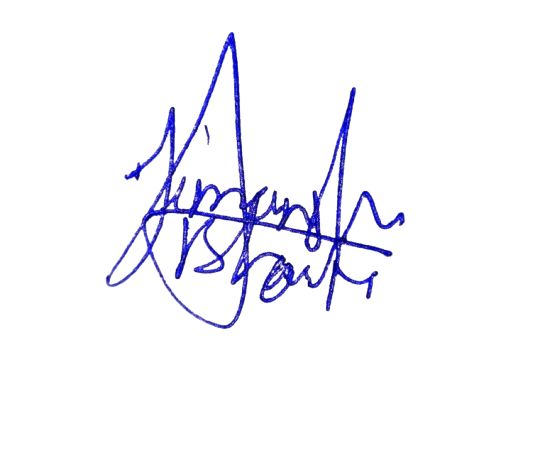
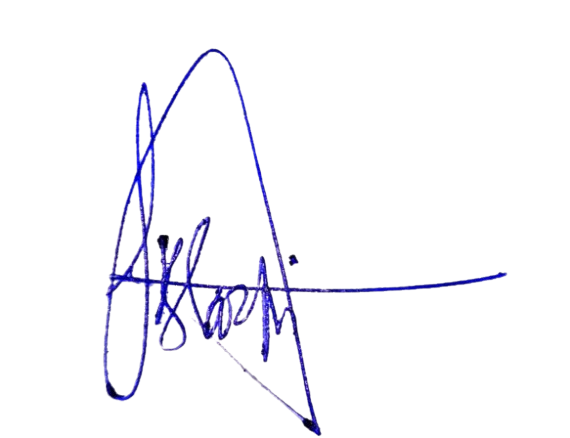
Persist document branding assets as data URLs

diff --git a/backend/routes/documentAssets.js b/backend/routes/documentAssets.js
@@ -2,7 +2,7 @@ const express = require('express');
 const router = express.Router();
 const { verifyToken, isAdmin } = require('../middleware/auth');
 const { logAdminAction } = require('../utils/audit');
-const { compatTableExists, safeRecordUploadedFile } = require('../utils/compat');
+const { compatColumnExists, compatTableExists, safeRecordUploadedFile } = require('../utils/compat');
 const { saveDataUrlFile, recordUploadedFile } = require('../utils/security');
 
 const DEFAULT_ASSETS = {
@@ -29,11 +29,12 @@ function toAbsoluteUploadUrl(req, fileUrl) {
 }
 
 function normalizeAsset(req, row) {
+    const displayUrl = row.assetDataUrl || toAbsoluteUploadUrl(req, row.fileUrl);
     return {
         id: row.id,
         assetKey: row.assetKey,
         label: row.label || ASSET_LABELS[row.assetKey] || row.assetKey,
-        fileUrl: toAbsoluteUploadUrl(req, row.fileUrl),
+        fileUrl: displayUrl,
         originalName: row.originalName || '',
         mimeType: row.mimeType || '',
         isActive: row.isActive !== 0,
@@ -48,15 +49,19 @@ async function loadActiveAssets(req) {
         return { assets, rows: [] };
     }
 
+    const hasAssetDataUrl = await compatColumnExists(connection, 'document_branding_assets', 'assetDataUrl');
+    const assetDataUrlSelect = hasAssetDataUrl ? ', assetDataUrl' : ', NULL AS assetDataUrl';
     const [rows] = await connection.query(
-        `SELECT id, assetKey, label, fileUrl, originalName, mimeType, isActive, createdAt, updatedAt
+        `SELECT id, assetKey, label, fileUrl${assetDataUrlSelect}, originalName, mimeType, isActive, createdAt, updatedAt
          FROM document_branding_assets
          WHERE isActive = 1
          ORDER BY updatedAt DESC, id DESC`
     );
 
     rows.forEach(row => {
-        if (row.assetKey && row.fileUrl) assets[row.assetKey] = toAbsoluteUploadUrl(req, row.fileUrl);
+        if (row.assetKey && (row.assetDataUrl || row.fileUrl)) {
+            assets[row.assetKey] = row.assetDataUrl || toAbsoluteUploadUrl(req, row.fileUrl);
+        }
     });
 
     return {
@@ -137,29 +142,58 @@ router.post('/admin/upload', verifyToken, isAdmin, async (req, res, next) => {
         });
 
         const resolvedLabel = String(label || ASSET_LABELS[assetKey]).trim() || ASSET_LABELS[assetKey];
-        await req.db.query(
-            `INSERT INTO document_branding_assets
-                (assetKey, label, fileUrl, originalName, mimeType, isActive, uploadedFileId, createdBy, createdAt, updatedAt)
-             VALUES (?, ?, ?, ?, ?, 1, ?, ?, NOW(), NOW())
-             ON DUPLICATE KEY UPDATE
-                label = VALUES(label),
-                fileUrl = VALUES(fileUrl),
-                originalName = VALUES(originalName),
-                mimeType = VALUES(mimeType),
-                isActive = 1,
-                uploadedFileId = VALUES(uploadedFileId),
-                createdBy = VALUES(createdBy),
-                updatedAt = NOW()`,
-            [
-                assetKey,
-                resolvedLabel,
-                file.fileUrl,
-                file.originalName,
-                file.mimeType,
-                uploadedFileId,
-                req.user?.id || null
-            ]
-        );
+        const hasAssetDataUrl = await compatColumnExists(req.db, 'document_branding_assets', 'assetDataUrl');
+        if (hasAssetDataUrl) {
+            await req.db.query(
+                `INSERT INTO document_branding_assets
+                    (assetKey, label, fileUrl, assetDataUrl, originalName, mimeType, isActive, uploadedFileId, createdBy, createdAt, updatedAt)
+                 VALUES (?, ?, ?, ?, ?, ?, 1, ?, ?, NOW(), NOW())
+                 ON DUPLICATE KEY UPDATE
+                    label = VALUES(label),
+                    fileUrl = VALUES(fileUrl),
+                    assetDataUrl = VALUES(assetDataUrl),
+                    originalName = VALUES(originalName),
+                    mimeType = VALUES(mimeType),
+                    isActive = 1,
+                    uploadedFileId = VALUES(uploadedFileId),
+                    createdBy = VALUES(createdBy),
+                    updatedAt = NOW()`,
+                [
+                    assetKey,
+                    resolvedLabel,
+                    file.fileUrl,
+                    dataUrl,
+                    file.originalName,
+                    file.mimeType,
+                    uploadedFileId,
+                    req.user?.id || null
+                ]
+            );
+        } else {
+            await req.db.query(
+                `INSERT INTO document_branding_assets
+                    (assetKey, label, fileUrl, originalName, mimeType, isActive, uploadedFileId, createdBy, createdAt, updatedAt)
+                 VALUES (?, ?, ?, ?, ?, 1, ?, ?, NOW(), NOW())
+                 ON DUPLICATE KEY UPDATE
+                    label = VALUES(label),
+                    fileUrl = VALUES(fileUrl),
+                    originalName = VALUES(originalName),
+                    mimeType = VALUES(mimeType),
+                    isActive = 1,
+                    uploadedFileId = VALUES(uploadedFileId),
+                    createdBy = VALUES(createdBy),
+                    updatedAt = NOW()`,
+                [
+                    assetKey,
+                    resolvedLabel,
+                    file.fileUrl,
+                    file.originalName,
+                    file.mimeType,
+                    uploadedFileId,
+                    req.user?.id || null
+                ]
+            );
+        }
 
         await logAdminAction(req.db, req, 'document_asset_update', {
             entityType: 'document_branding_assets',
@@ -172,7 +206,7 @@ router.post('/admin/upload', verifyToken, isAdmin, async (req, res, next) => {
             asset: {
                 assetKey,
                 label: resolvedLabel,
-                fileUrl: toAbsoluteUploadUrl(req, file.fileUrl),
+                fileUrl: hasAssetDataUrl ? dataUrl : toAbsoluteUploadUrl(req, file.fileUrl),
                 originalName: file.originalName,
                 mimeType: file.mimeType,
                 isActive: true

diff --git a/admin-dashboard.html b/admin-dashboard.html
@@ -3273,6 +3273,7 @@
                 const response = await APIService.getAdminDocumentAssets();
                 if (!response?.success) throw new Error(response?.message || 'Document assets load failed');
                 documentAssetsCache = { ...(response.defaults || {}), ...(response.assets || {}) };
+                localStorage.setItem('bsiDocumentBrandingAssets', JSON.stringify(documentAssetsCache));
                 if (status) status.textContent = response.tableReady === false
                     ? 'Migration pending: document asset table is not available yet.'
                     : 'Active document assets loaded.';
@@ -3321,6 +3322,11 @@
                 });
                 if (!response?.success) throw new Error(response?.message || 'Document asset update failed');
                 delete pendingDocumentAssetUploads[assetKey];
+                const activeAssets = JSON.parse(localStorage.getItem('bsiDocumentBrandingAssets') || '{}');
+                localStorage.setItem('bsiDocumentBrandingAssets', JSON.stringify({
+                    ...activeAssets,
+                    [assetKey]: response.asset?.fileUrl || upload.dataUrl
+                }));
                 addActivityLog(`${asset.label} updated`);
                 await loadDocumentAssets();
                 renderActivityLog();

diff --git a/backend/config/schema.js b/backend/config/schema.js
@@ -248,6 +248,7 @@ async function ensureRuntimeSchema(pool) {
                 assetKey VARCHAR(80) NOT NULL,
                 label VARCHAR(160) NOT NULL,
                 fileUrl VARCHAR(500) NOT NULL,
+                assetDataUrl LONGTEXT NULL,
                 originalName VARCHAR(255) DEFAULT NULL,
                 mimeType VARCHAR(120) DEFAULT NULL,
                 isActive TINYINT(1) DEFAULT 1,
@@ -260,6 +261,8 @@ async function ensureRuntimeSchema(pool) {
                 INDEX idx_document_branding_updated (updatedAt)
             )
         `);
+
+        await addColumnIfMissing(connection, 'document_branding_assets', 'assetDataUrl', 'LONGTEXT NULL');
 
         await connection.query(`
             CREATE TABLE IF NOT EXISTS admin_audit_logs (
